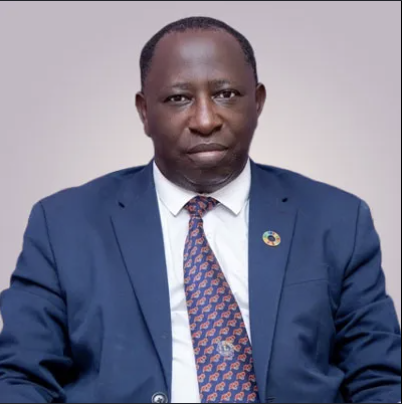
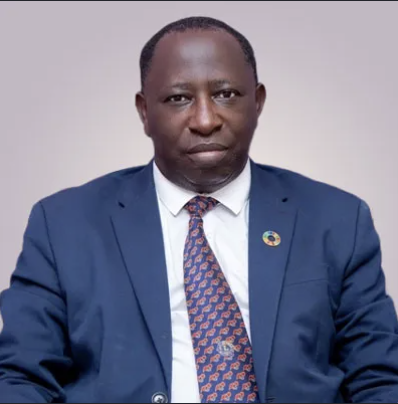
updated

diff --git a/index.html b/index.html
@@ -714,7 +714,7 @@
     
     <div class="bg-[#E9D5FF] p-3 text-center border-t-4 border-pastel-periwinkle/30">
         <h4 class="text-sm md:text-lg font-bold text-pastel-deep">Charles Ibingira</h4>
-        <p class="text-[#9333EA] text-xs md:text-base font-bold uppercase tracking-wide">Founder | Professor</p>
+        <p class="text-[#9333EA] text-xs md:text-base font-bold uppercase tracking-wide">Founder | Professor | BOD</p>
     </div>
 </div>
 